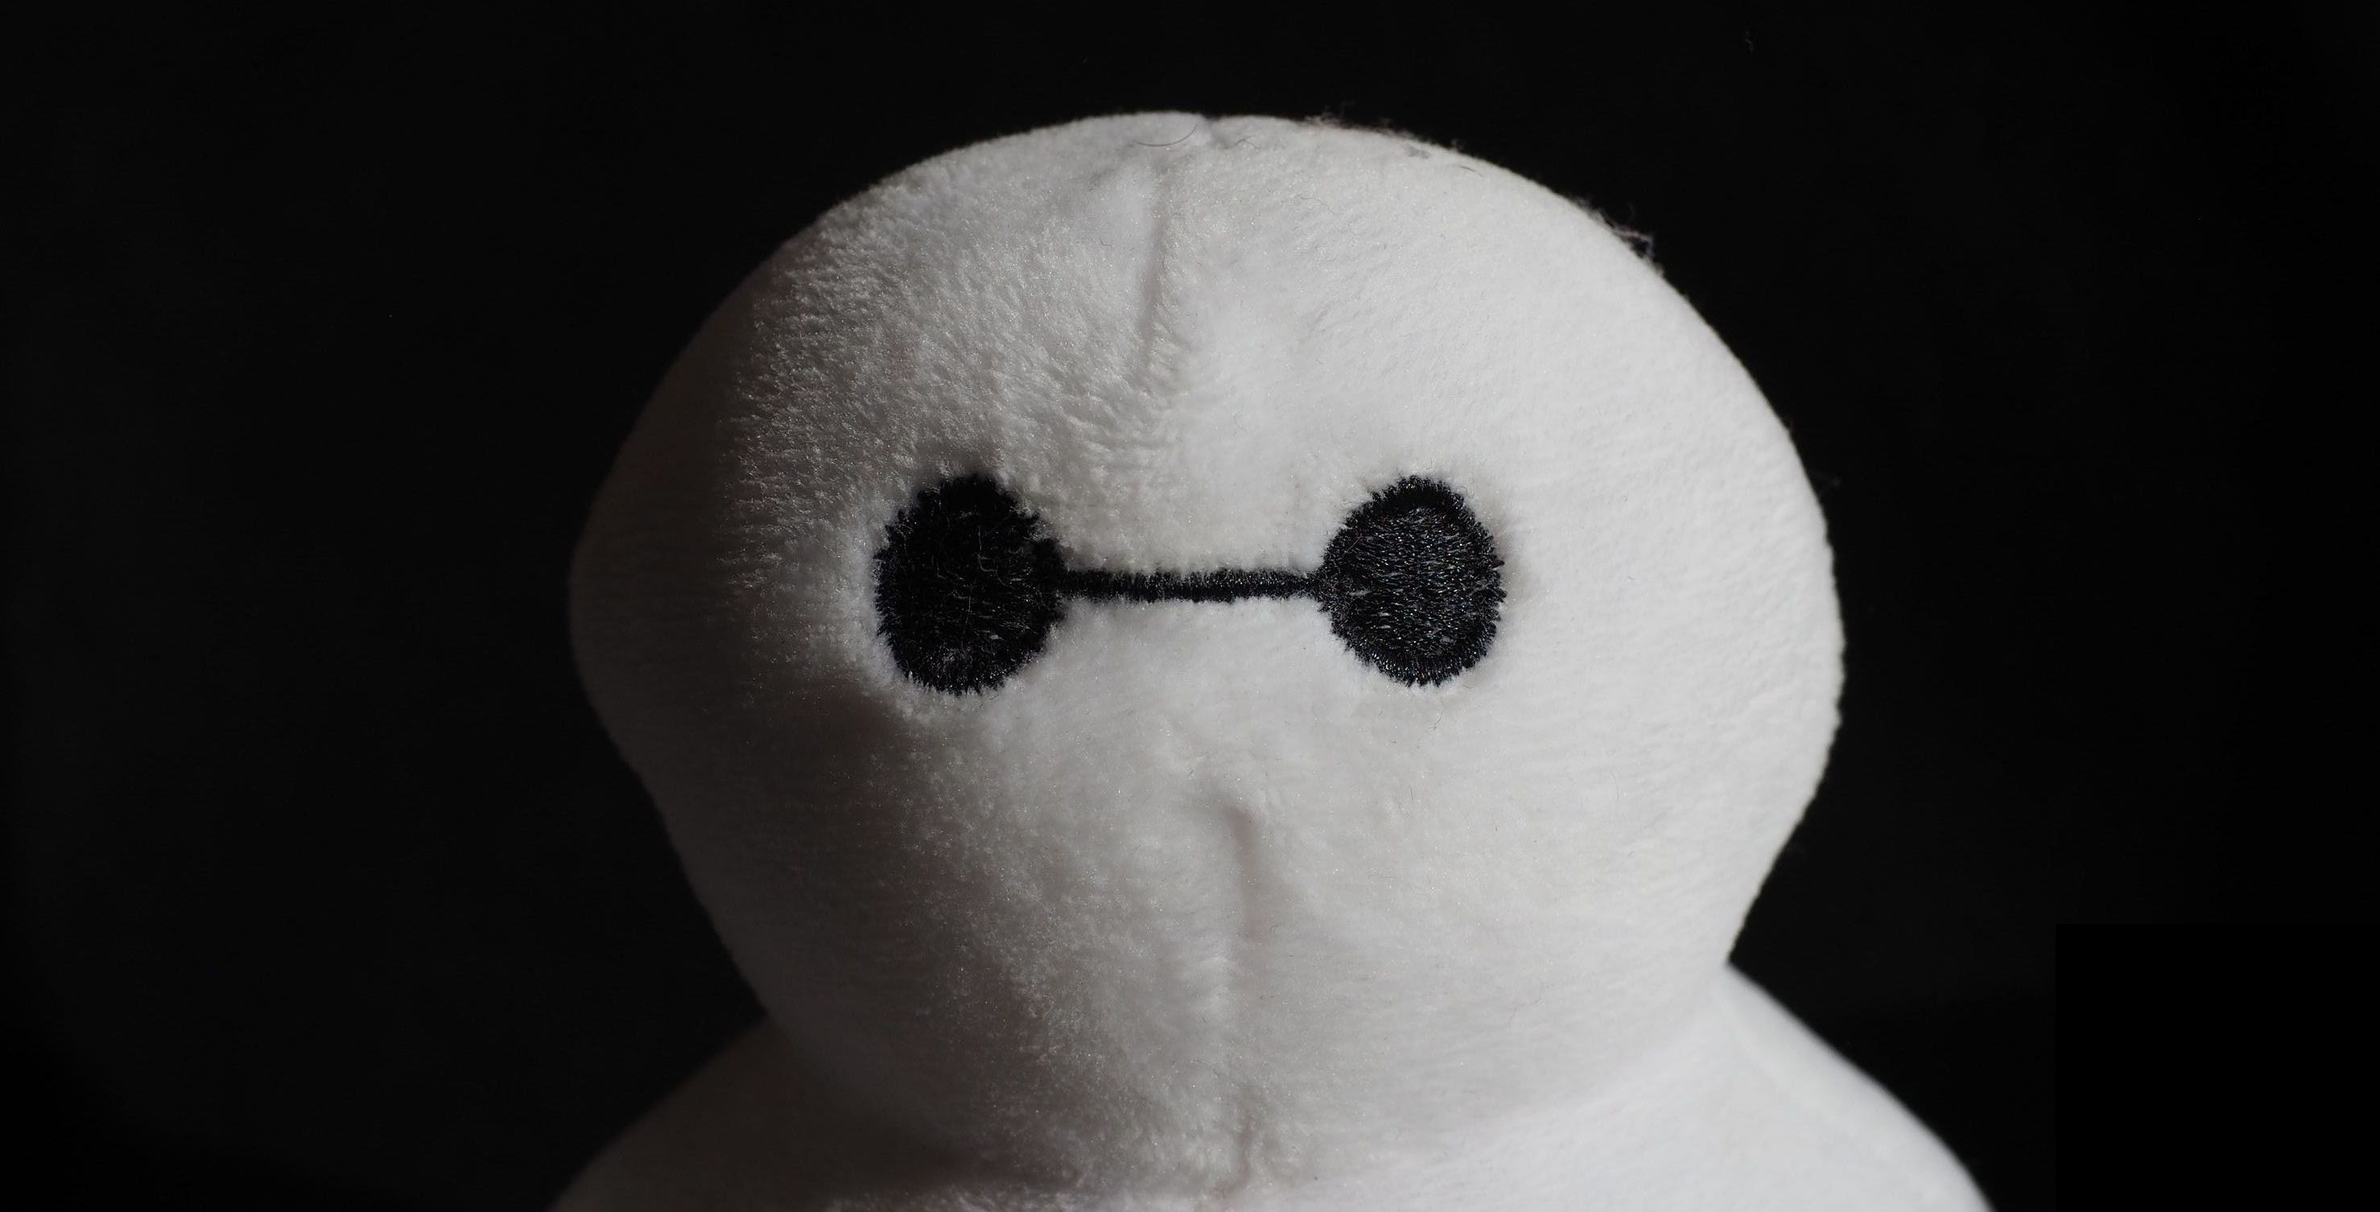
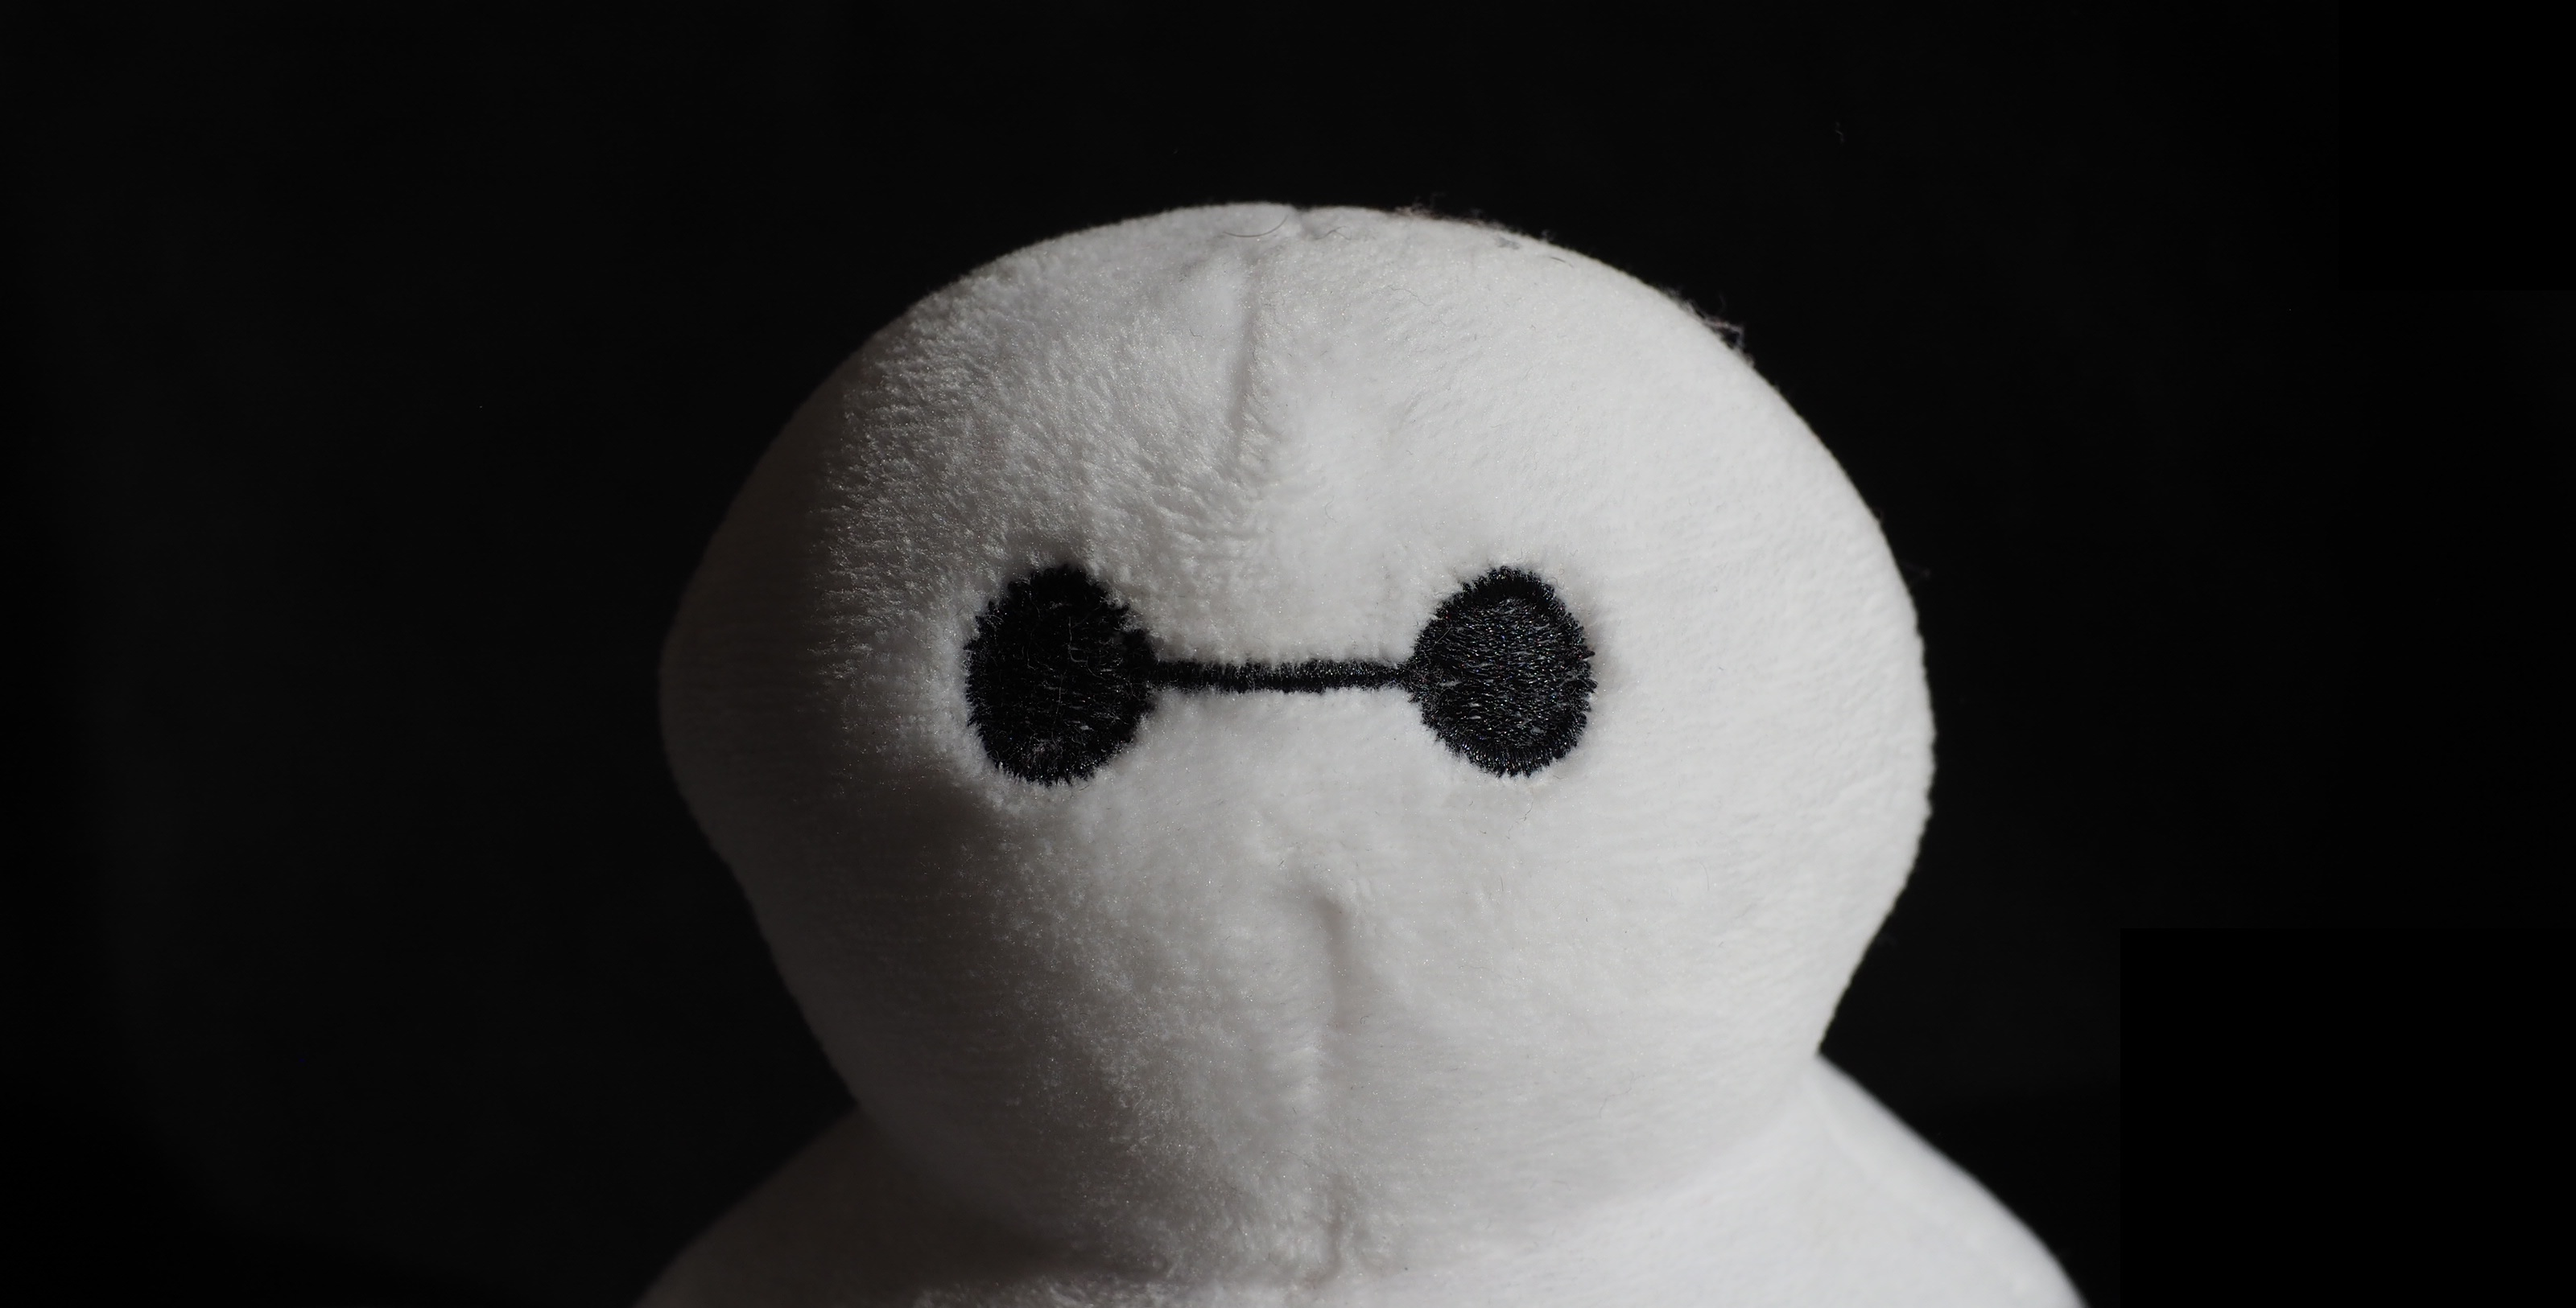
Using a higher resolution for the Baymax background and the cover style to prevent Baymax from stretching

diff --git a/cool.css b/cool.css
@@ -112,7 +112,7 @@ html , body {
 
 .bottomSlideBox {
 	background-image: url("baymax.jpg");
-	background-size: 100% 100%;
+	background-size: cover;
 	background-repeat:no-repeat;
 	background-color: rgb(100, 200, 0);
 	border-top: 0;
